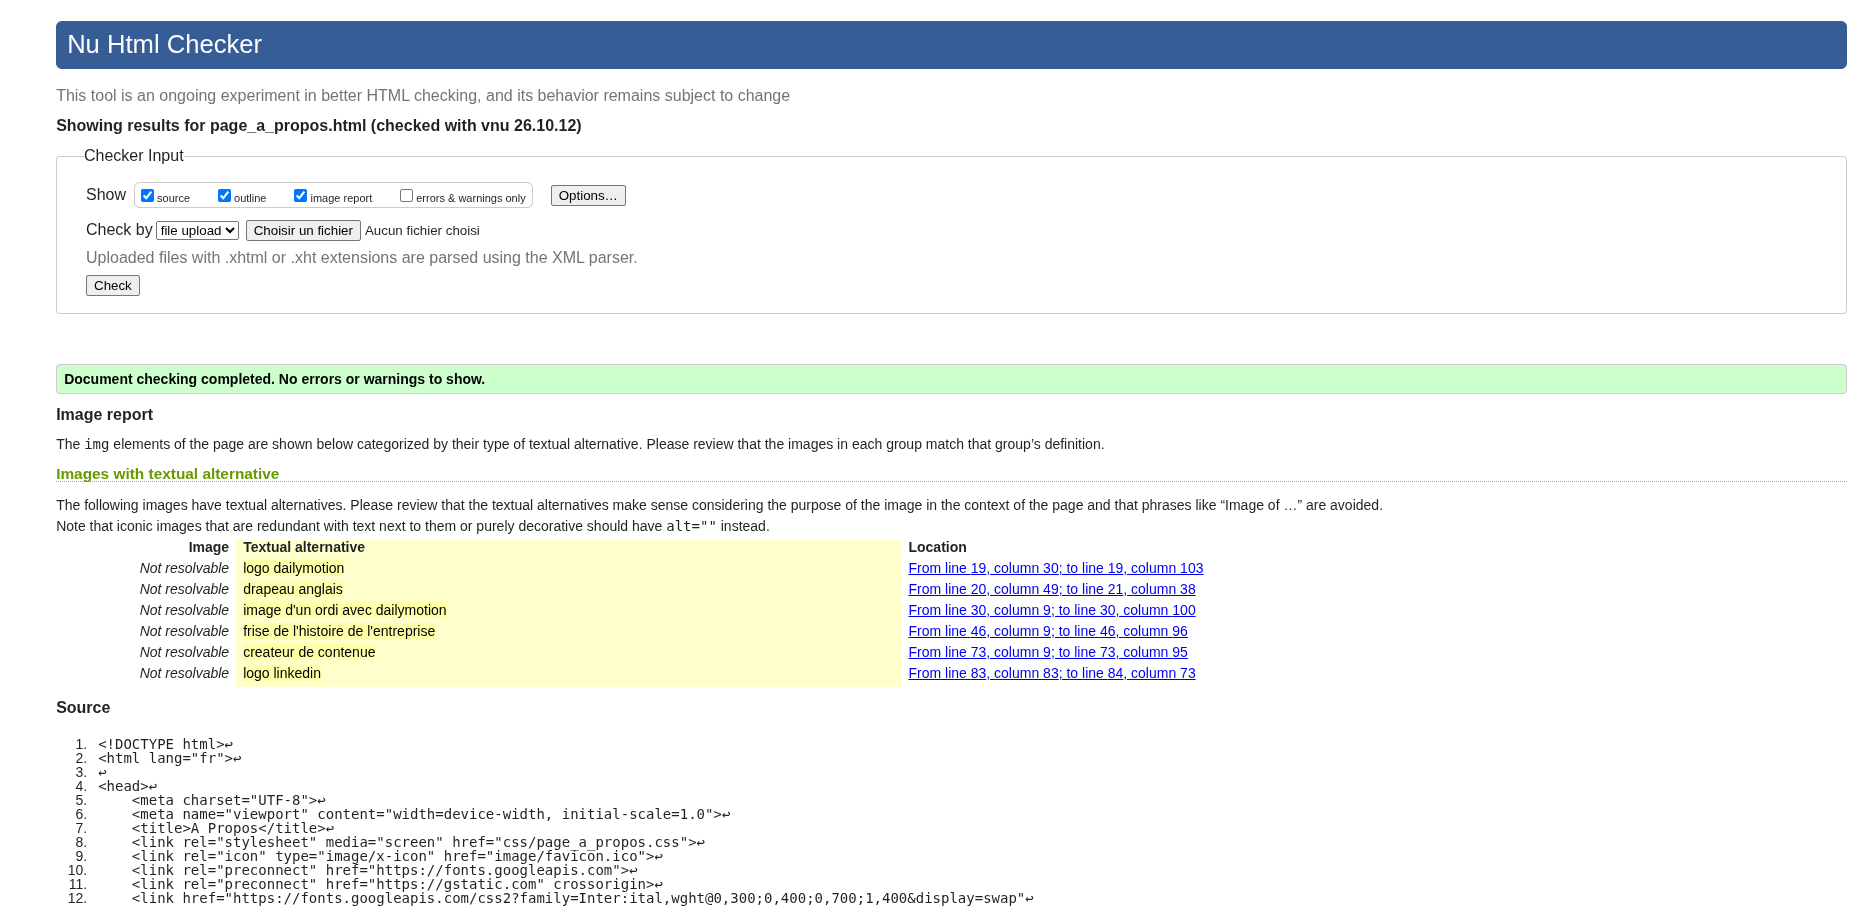
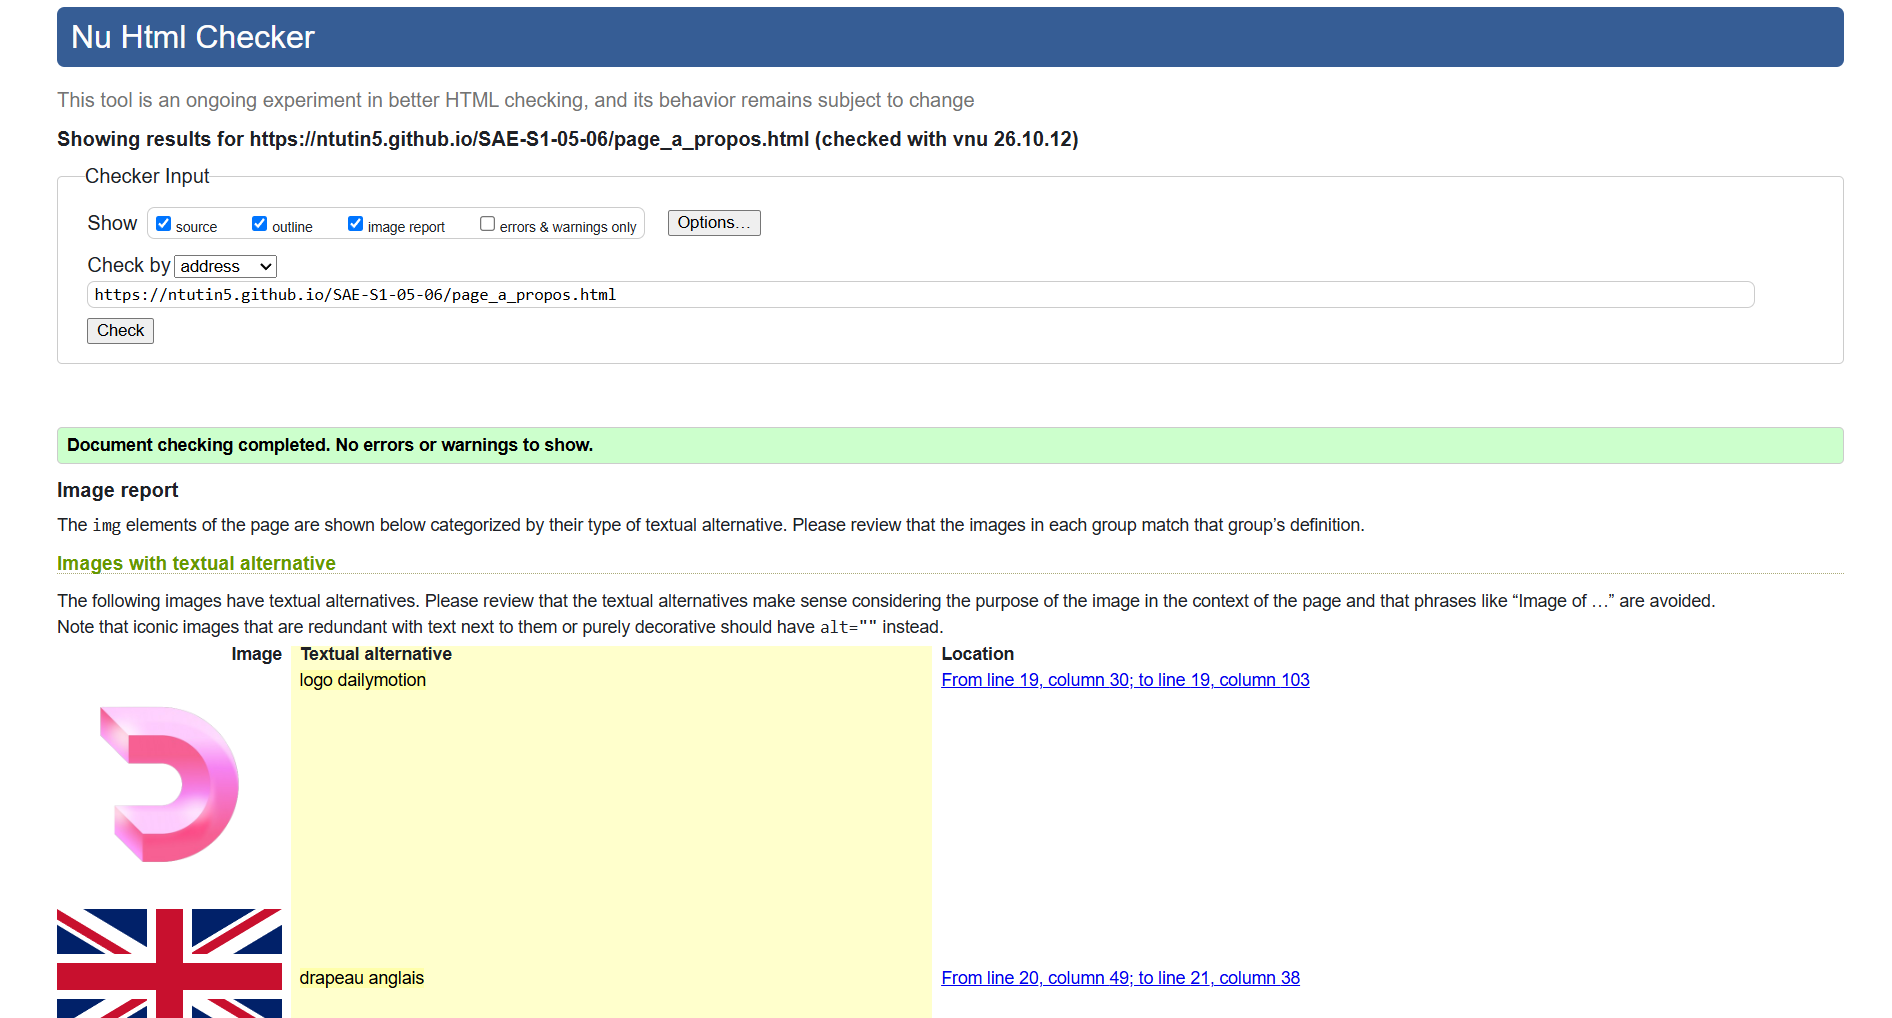
correction image + lien W3C page a propos

Changed region(s): [[0.031, 0.4018, 0.993, 1.0], [0.031, 0.0, 0.993, 0.34]]

diff --git a/README.md b/README.md
@@ -64,7 +64,7 @@ Vérification W3C : [Détail ICI](https://validator.w3.org/nu/?showsource=yes&sh
 
 **Auteur : THIRION Quentin**  
 
-Vérification W3C : [Détail ICI](https://validator.w3.org/nu/?showsource=yes&showoutline=yes&showimagereport=yes&doc=https%3A%2F%2Fdemo-am90.github.io%2Fs1-demo%2Findex.html#file)
+Vérification W3C : [Détail ICI](https://validator.w3.org/nu/?showsource=yes&showoutline=yes&showimagereport=yes&doc=https%3A%2F%2Fntutin5.github.io%2FSAE-S1-05-06%2Fpage_a_propos.html)
 
 <br>
 <img src="image/capture_quentin_W3C.png" width="400px" alt="capture ecran sur ecoconcept">
